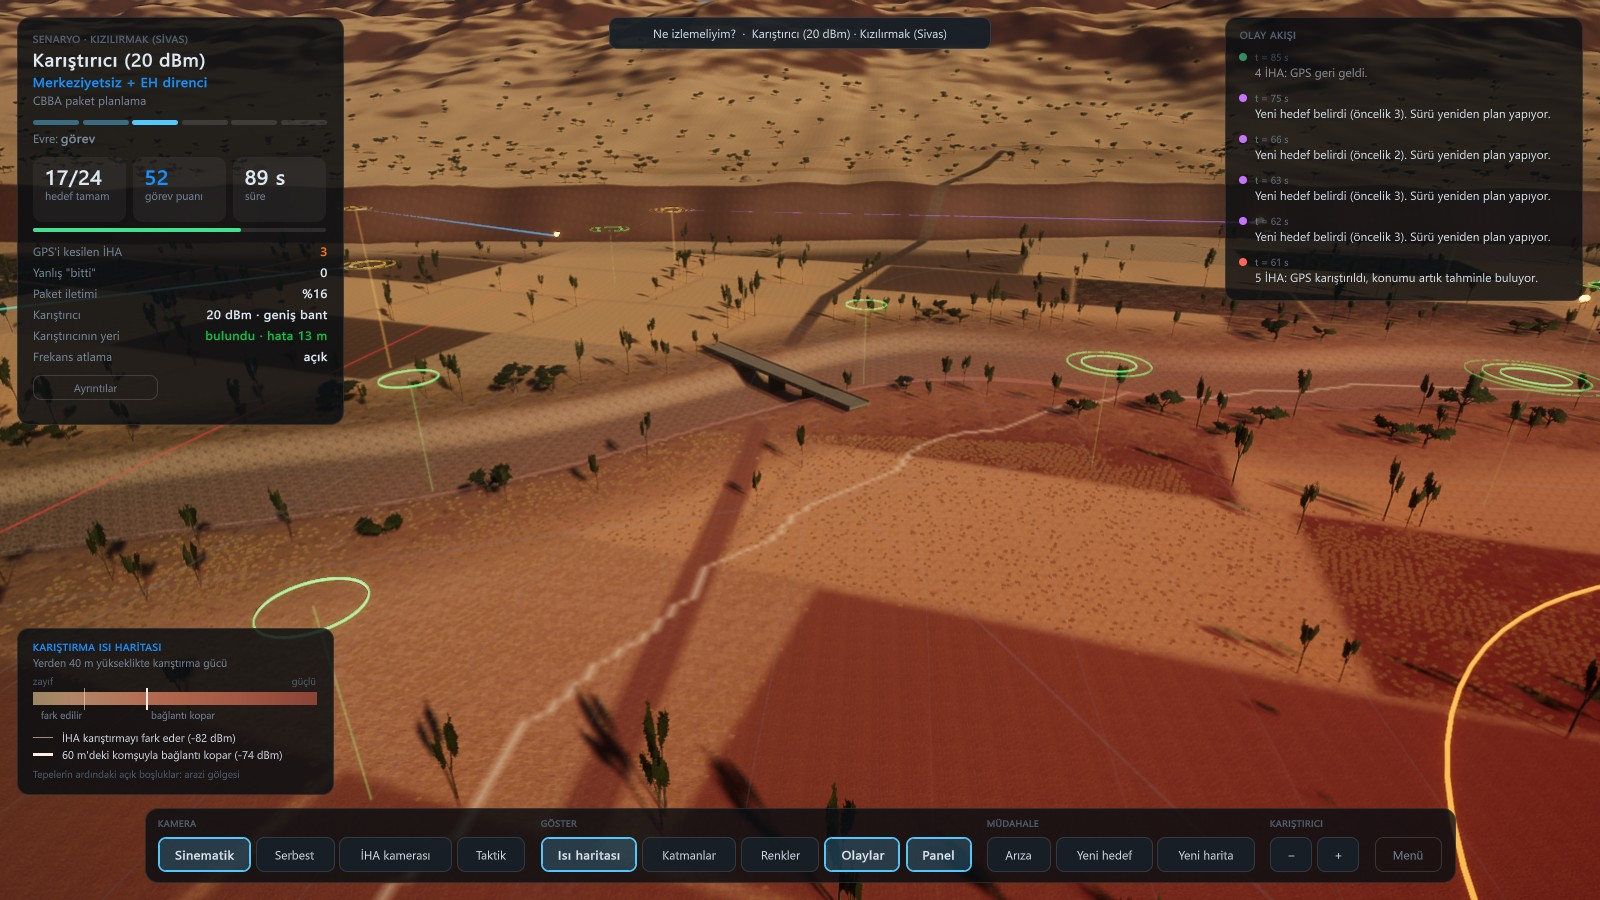
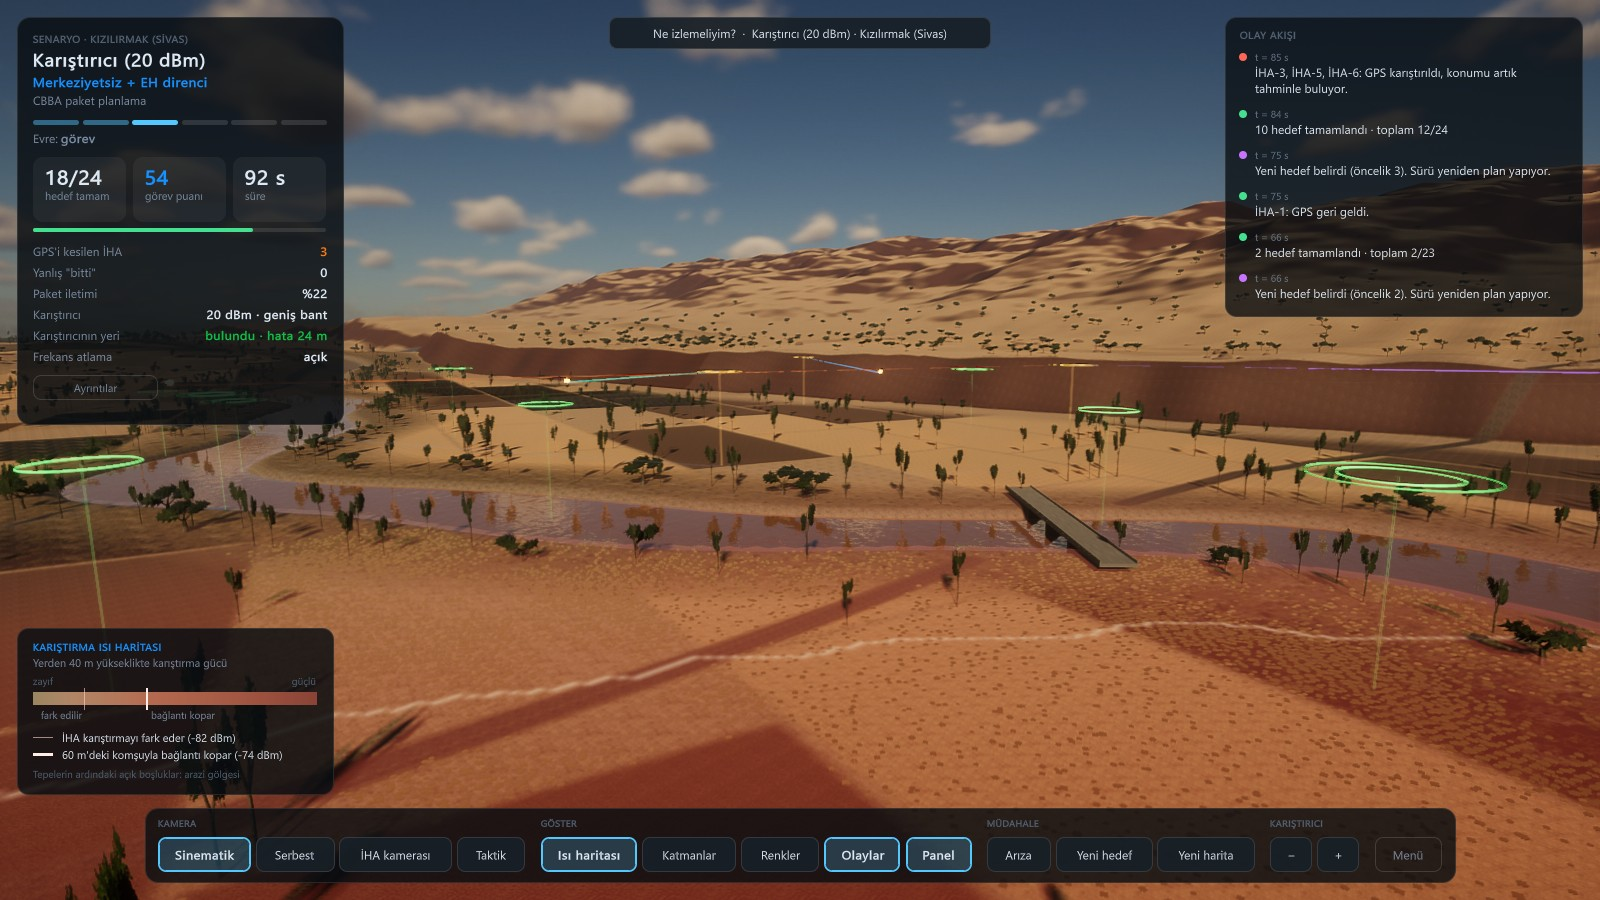
Kızılırmak: su yüzeyi görünür (üçgen yönü düzeltildi)
- Nehrin su örgüsünün üçgenleri ters diziliydi: yüzey aşağı bakıyor, üstten
  arka yüz sayılıp çizilmiyordu (görünen gri şerit yataktaki çakıldı).
  Üçgenler yukarı bakacak şekilde dizildi; nehir artık kızıl-kahve, akan ve
  gökyüzünü, ağaçları, köprüyü yansıtan su olarak görünür
- Önizlemeye Kızılırmak karesi (nehir, köprü, kızıl yar); galeri 68-70 yenilendi

diff --git a/unity/Assets/SuruIHA/Editor/SuruIHASetup.River.cs b/unity/Assets/SuruIHA/Editor/SuruIHASetup.River.cs
@@ -298,7 +298,8 @@ namespace SuruIHA.EditorTools
                     uvs.Add(new Vector2((s + 1) * half / 16f, len / 16f));    // 16 m'de bir doku tekrarı
                 }
                 int n = verts.Count;
-                if (n >= 4) tris.AddRange(new[] { n - 4, n - 2, n - 3, n - 3, n - 2, n - 1 });
+                // Üçgenler yukarı baksın (Unity'de ön yüz saat yönünde): ters dizilirse yüzey üstten görünmez
+                if (n >= 4) tris.AddRange(new[] { n - 4, n - 3, n - 2, n - 3, n - 1, n - 2 });
             }
             var mesh = new Mesh { name = "Kizilirmak_Su", indexFormat = IndexFormat.UInt32 };
             mesh.SetVertices(verts);

diff --git a/unity/Assets/SuruIHA/Editor/SuruIHAPreview.cs b/unity/Assets/SuruIHA/Editor/SuruIHAPreview.cs
@@ -66,6 +66,12 @@ namespace SuruIHA.EditorTools
             cam.transform.LookAt(o + new Vector3(60, 20, 60));
             cam.fieldOfView = 55;
             Capture(cam, Path.Combine(outDir, "14_kar_genel.png"));
+            // Kızılırmak (12 km batı): nehir, köprü ve kızıl yar
+            var r = SwarmRegions.RiverOffset;
+            cam.transform.position = r + new Vector3(-230, 70, 260);
+            cam.transform.LookAt(r + new Vector3(-10, 0, 470));
+            cam.fieldOfView = 55;
+            Capture(cam, Path.Combine(outDir, "15_kizilirmak.png"));
             Debug.Log("[SuruIHA] Önizlemeler: " + outDir);
         }
 
